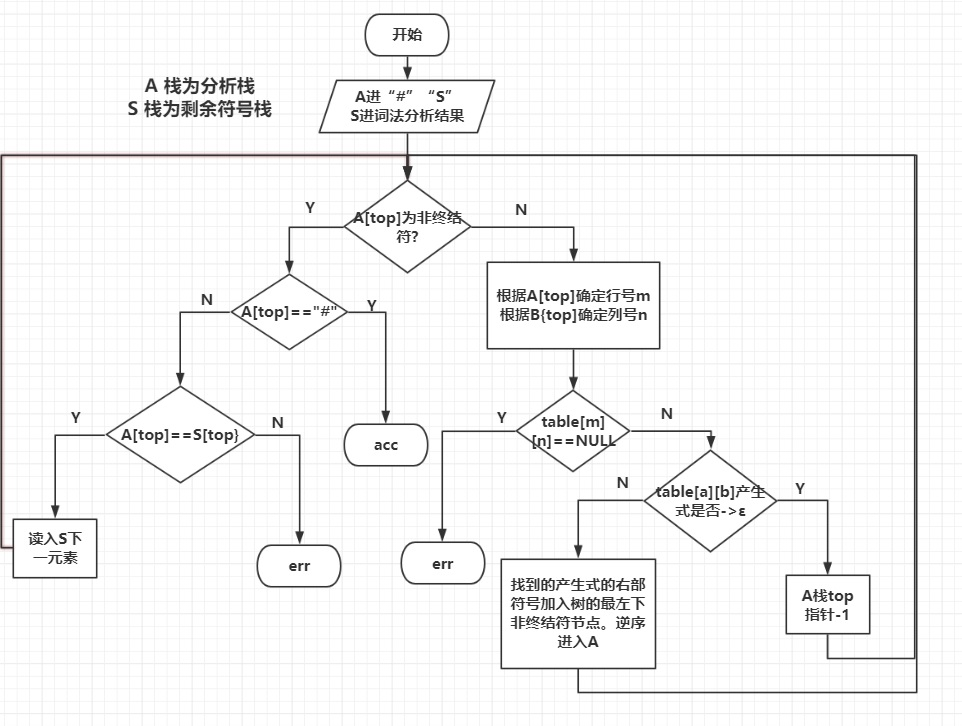
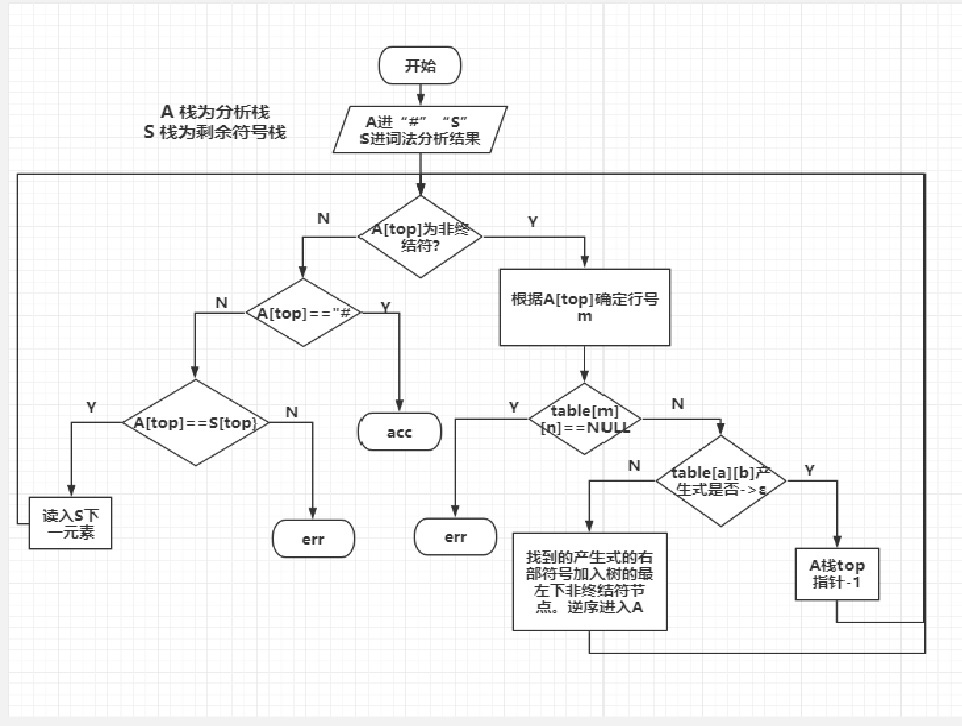
-add code generation doc -fix a error in that picture

Changed region(s): [[0.0, 0.0, 0.9667, 0.9697]]

diff --git a/docs/code_generation.md b/docs/code_generation.md
@@ -1,0 +1,61 @@
+# Part III: IR code generation
+
+## Position of this part
+
+```ascii
+
++------------+          +------------+          +--------------+
+|            |  Token   |            |  Syntax  |              |  IR
+|  Scanner   +--------> |   Parser   +--------> |Code Generator+------>
+|            |          |            |   Tree   |              |
++------------+          +-----+------+          +--------------+
+                              ^
+           ^                  |                     ^
+           |                  ^                     |
+           |            +-----+------+              |
+           |            |   Symbol   |              |
+           +----------> |   Table    | <------------+
+                        +------------+
+
+```
+
+##Code generation strategy in kaleidoscope
+kaleidoscope uses recursive descent method to deal with syntax analysis, 
+which means there will be a function for each production. 
+In this function, it creates new tree nodes according to the left part of production.
+Using Polymorphism, it overwrites codegen method in each subclass of BaseAST to produce IR code.
+
+To implement codegen method, we need to call some functions provided by llvm.
+
+##Our code generation strategy
+In the stage of syntax analysis, we choosed to use the method of forecast analysis 
+table instead of recursive descent. We thought this method is more effective comparing 
+to recursive descent because we don`t need to extend syntax analysis part in the future. 
+Our syntax analysis procedure also output a syntax tree.
+
+Unlikly to kaleidoscope. our syntax tree only has one kind of node which means we 
+won`t need to use polymorphism. we plan to call different code generation method 
+according to the type of symbol in this three node.
+
+It is likly that our codegen method will look like this:
+
+```cpp
+Value *AST::codegen(){
+	switch(this->symbol.type){
+		case "FUNC":
+			return this->funcCodeGen();
+		case"PRINT":
+			return this->printCodeGen();
+		....
+		default:
+			error();
+	}
+}
+Value *AST::funcCodeGen(){
+	some LLVM function call
+}
+Value *AST::printCodeGen(){
+	some LLVM function call
+}
+...
+```
